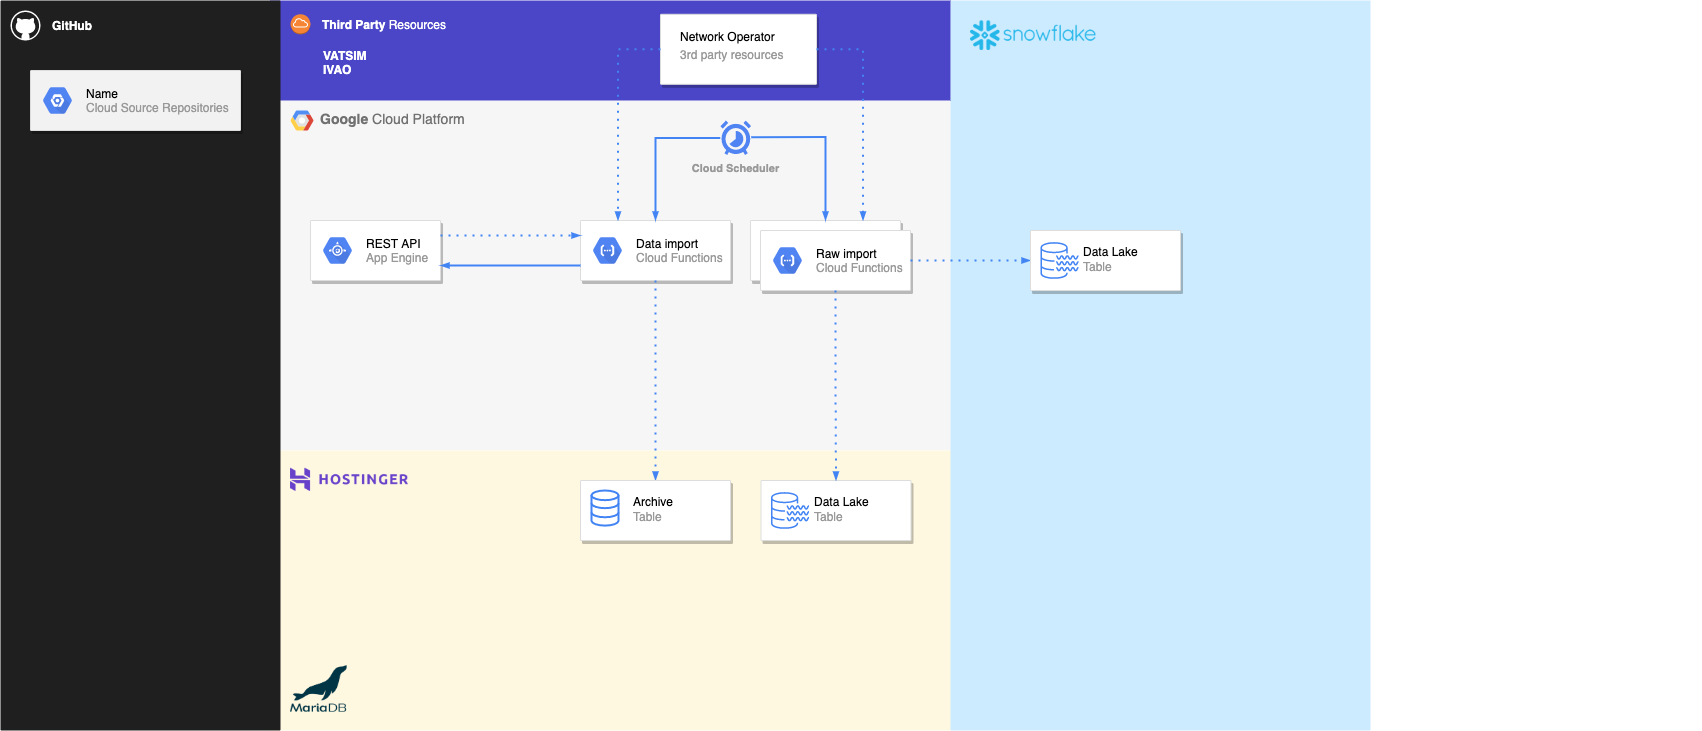
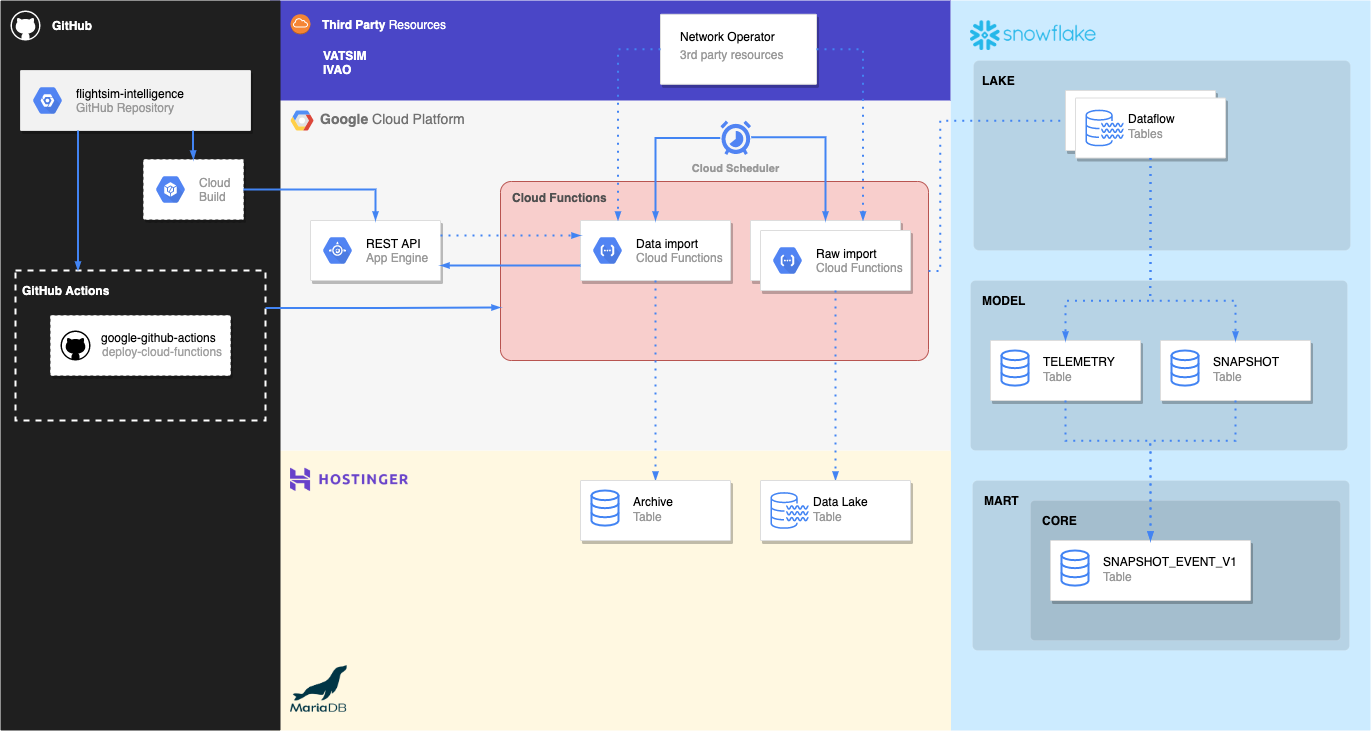
fix path bug for ivao raw import and add agg

diff --git a/scheduled_jobs/gcp/snowflake/live_now_agg/main.py b/scheduled_jobs/gcp/snowflake/live_now_agg/main.py
@@ -1,0 +1,51 @@
+import requests
+import json
+import os
+from snowflake.connector import connect, Error
+from dotenv import load_dotenv
+
+load_dotenv()  # take environment variables from .env.
+
+SNOWFLAKE_ACCOUNT = os.getenv("SNOWFLAKE_ACCOUNT")
+SNOWFLAKE_GCP_USER =  os.getenv("SNOWFLAKE_GCP_USER")
+SNOWFLAKE_GCP_USER_PASSWORD = os.getenv("SNOWFLAKE_GCP_USER_PASSWORD")
+
+def postAggregated(arg = None):
+
+    response = requests.get('https://fs-api.grubse.com/data') 
+    poscon_pilots = requests.get('https://atc.poscon.net/api/air/leases/countCurrent').json()
+    poscon_atc = requests.get('https://atc.poscon.net/api/atc/controllers/countActive').json()
+    poscon = poscon_atc + poscon_pilots
+
+    if str(response.status_code)[0] in [4, 5]:
+        print('API failed with status code 4XX or 5XX')
+        return 'API failed'
+
+    data = response.json()
+
+    try:
+        with connect(
+            user = SNOWFLAKE_GCP_USER,
+            password = SNOWFLAKE_GCP_USER_PASSWORD,
+            account = SNOWFLAKE_ACCOUNT,
+            role = 'developer',
+            warehouse = 'compute_wh',
+            database = 'lake',
+            schema = 'dataflow',
+            session_parameters = {'QUERY_TAG': 'Import aggregated data'}
+        ) as connection:
+            print(connection)
+            cursor = connection.cursor()
+            add_intelligence = ("INSERT INTO archive "
+                "(ivao, vatsim, poscon) "
+                "VALUES (%s, %s, %s)")
+            data_intelligence = (data['data']['ivao'], data['data']['vatsim'], poscon)
+            cursor.execute(add_intelligence, data_intelligence)
+            connection.commit()
+            cursor.close()
+            connection.close()
+    except Error as e:
+        print(e)
+        return e
+
+postAggregated()

diff --git a/README.md b/README.md
@@ -1,3 +1,5 @@
 # flightsim-intelligence
+A flightsim intelligence service developed by Alexander Viala Bellander
 
+## system architecture
 ![Architecture](architecture.png)
